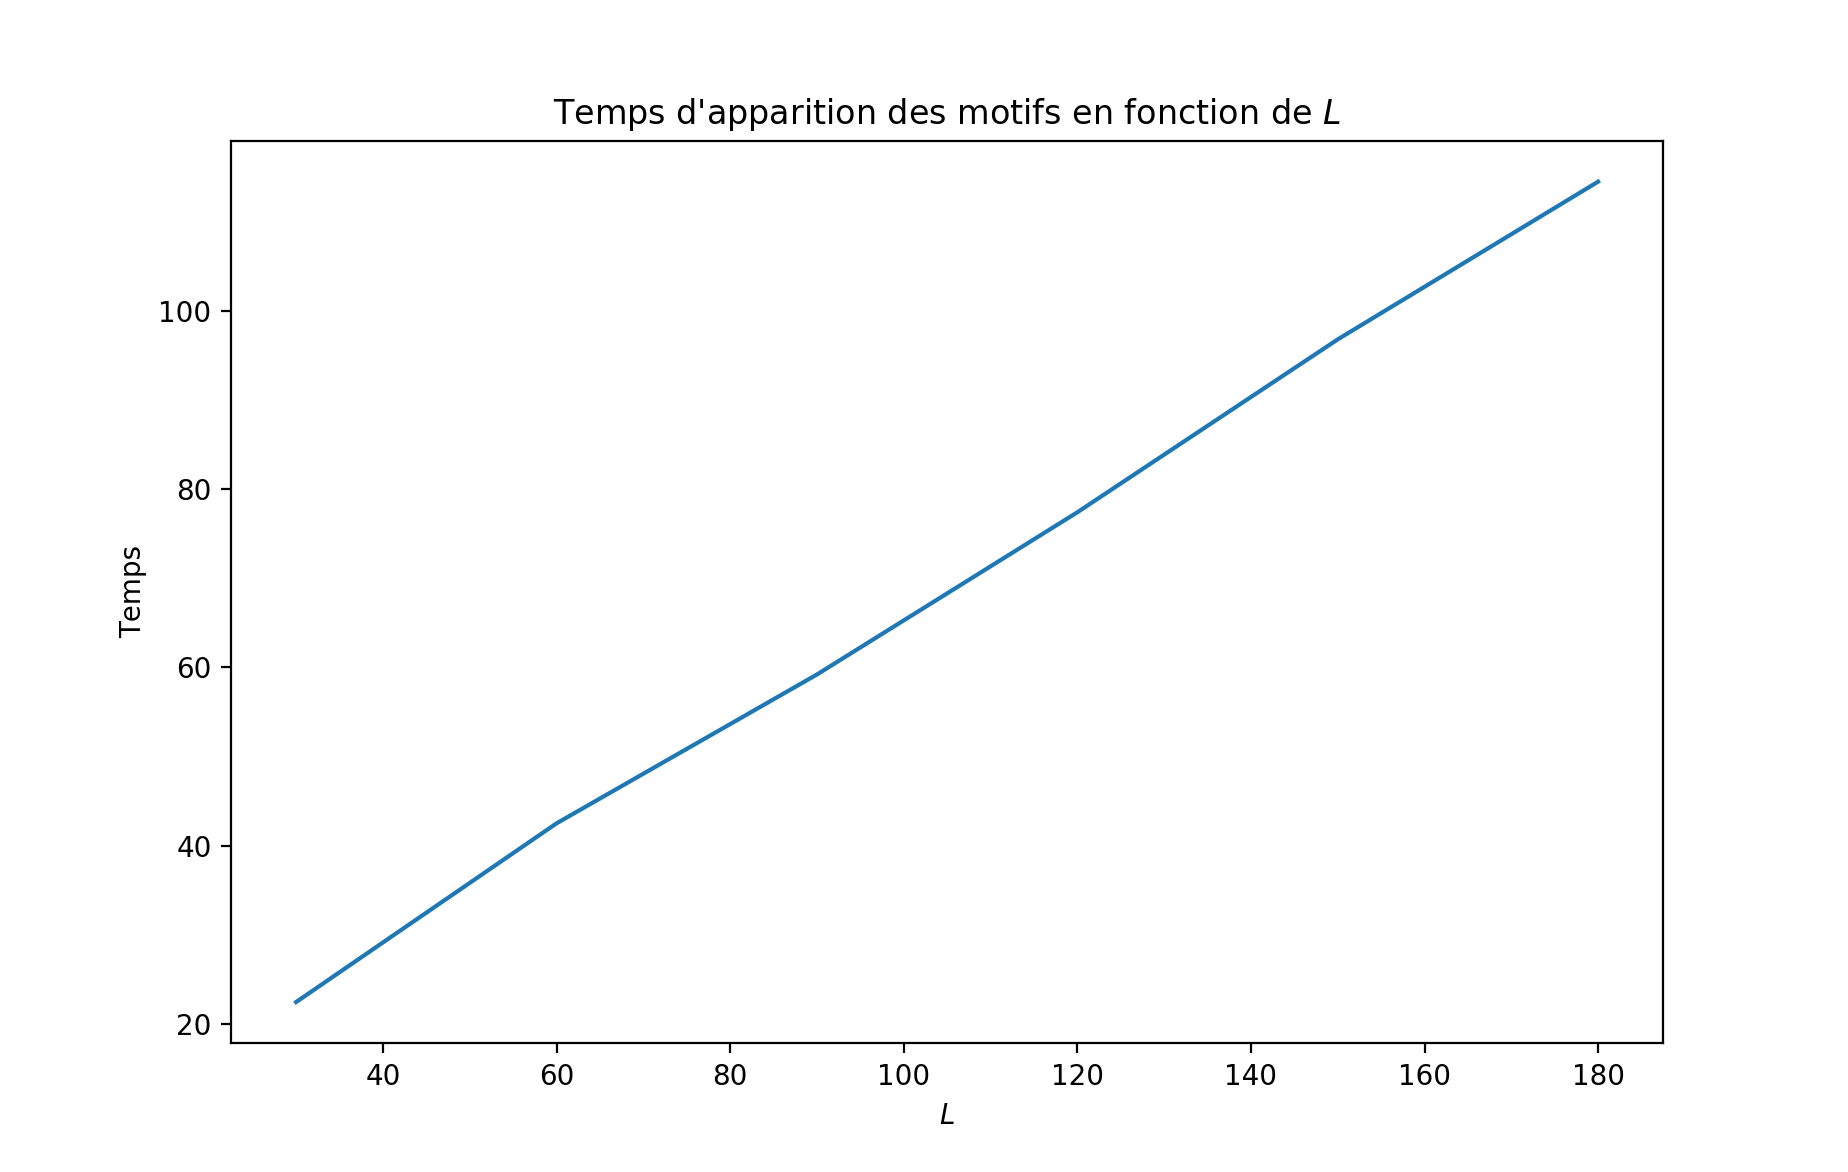
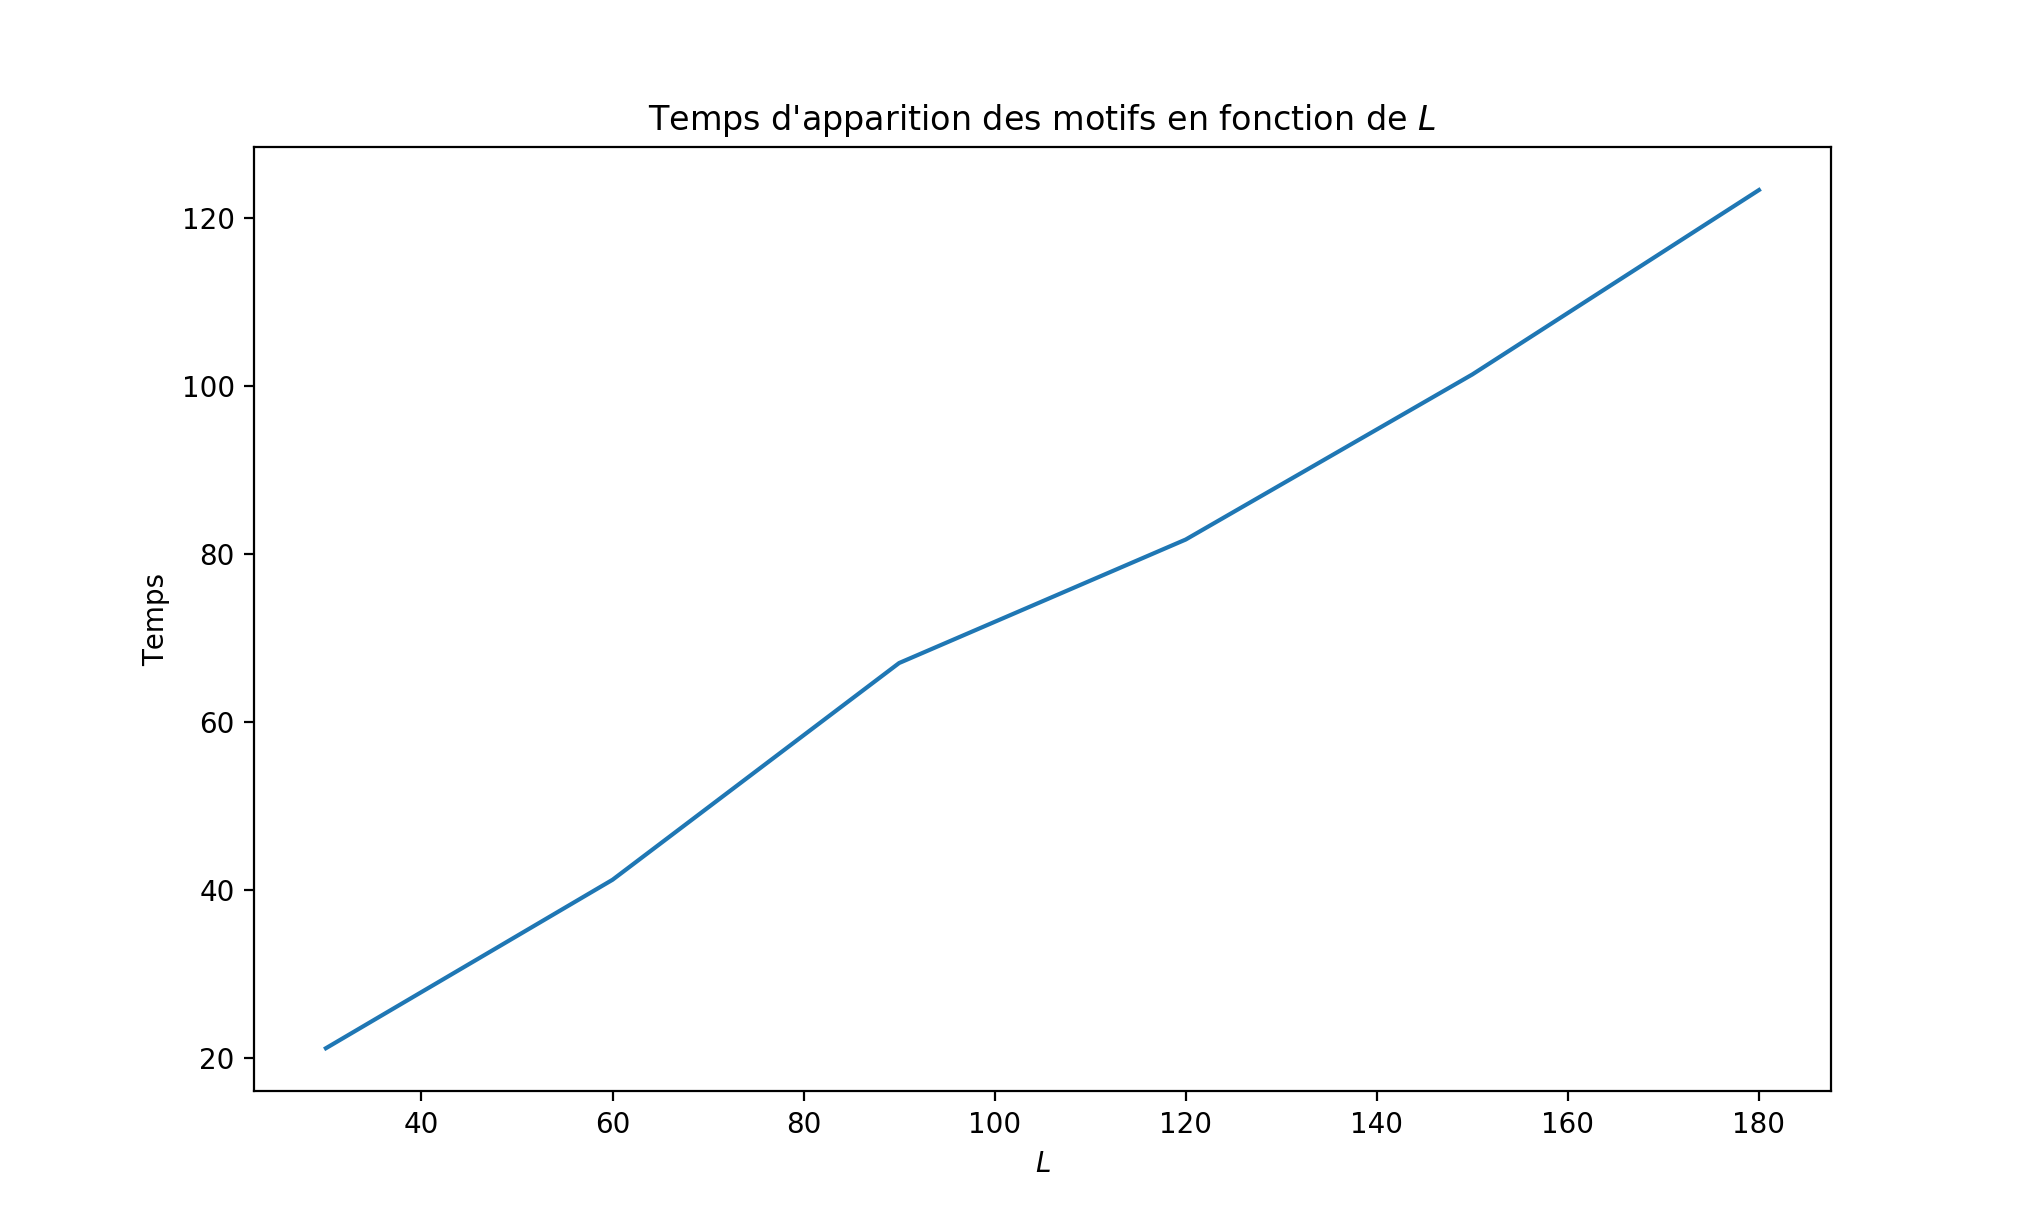
correction calcul lambda

diff --git a/pattern.py b/pattern.py
@@ -7,16 +7,16 @@ from scipy.integrate import simps
 
 
 def u_0(x,L):
-    gamma = 0.1
+    gamma = 0
     return 1*(cos(2*pi*x/L) + gamma*cos(4*pi*x/L))
 
 def noise_u_0(x,L):
-    gamma = 0.5
+    gamma = 0.1
     N = np.shape(x)[0]
     return 1*(cos(2*pi*x/L) + gamma*np.random.random(N)*cos(4*pi*x/L))
 
 def noise(x,L):
-    gamma = 0.5
+    gamma = 0.1
     N = np.shape(x)[0]
     return gamma*np.random.random(N)
 
@@ -86,10 +86,6 @@ def SH(f0,r,L):
         ukc = (1/N)*np.fft.fftshift(np.fft.fft(u**3))
         DFTc[:,j] = ukc
 
-    return U, x_range, [L, T, h, dt, r, T, M, N]
-
-
-
     plt.plot(x_range, U[:,0], label = "t = 0s")
     plt.plot(x_range, U[:,1], label = "t = {}s".format(dt))
     plt.plot(x_range, U[:,int(M/4)], label = "t = {:2.2f}s".format((M/4)*dt))
@@ -112,7 +108,7 @@ def SH(f0,r,L):
 
 
     [kk,tt]=np.meshgrid(k_range,t_range)
-    plt.contourf(kk,tt, DFT.T, cmap = "plasma", levels = 100) # cmap = "jet" dans les consignes
+    plt.contourf(kk,tt, np.abs(DFT.T), cmap = "plasma", levels = 100) # cmap = "jet" dans les consignes
     plt.xlabel("k")
     plt.ylabel("t")
     plt.title("Simulation numérique de l'équation de Swift-Hohenberg \n r = {}, dt = {}, N = {}, L = {}".format(r,dt,N,L))
@@ -120,10 +116,9 @@ def SH(f0,r,L):
     plt.show()
 
 
-    return U
+    return U, x_range, [L, T, h, dt, r, T, M, N]
 
-"""
-r = 0.2
+"""r = 0.2
 L = 100
 time_ev = SH(u_0,r,L)
 """
@@ -198,7 +193,8 @@ def tl_mesure(f0,r,L):
             else :
                 t_pattern = j*dt
                 # Longueur d'onde
-                k_f = abs(uk.tolist().index(min(uk))) + N/36
+                ua = np.abs(uk)
+                k_f = abs(ua.tolist().index(max(ua))) + N/36
                 lamb_f = 2*pi/k_f
 
                 break
@@ -215,34 +211,81 @@ def tl_mesure(f0,r,L):
 def rL_effect(u0, r_range, L_range):
     time = np.zeros((len(r_range), len(L_range)))
     wavelength = np.zeros((len(r_range), len(L_range)))
-
+    
     for n,r in enumerate(r_range):
         for m,L in enumerate(L_range):
             t_,l_ = tl_mesure(u0, r, L)
             time[n,m] = t_
             wavelength[n,m] = l_
-
+            
     plt.imshow(time)
     plt.xlabel("L = {}".format(L_range))
     plt.ylabel("r = {}".format(r_range))
     plt.colorbar()
     plt.show()
-    plt.clf()
-
+    plt.clf()  
+      
     plt.imshow(wavelength)
     plt.xlabel("L = {}".format(L_range))
     plt.ylabel("r = {}".format(r_range))
     plt.colorbar()
     plt.show()
-    plt.clf()
-
-
-
-    return time
-
-
+    plt.clf()  
+    
+      
+def r_effect(u0, r_range):
+    L = 100
+    time = np.zeros((len(r_range)))
+    wavelength = np.zeros((len(r_range)))
+    
+    for n,r in enumerate(r_range):
+        t_,l_ = tl_mesure(u0, r, L)
+        time[n] = t_
+        wavelength[n] = l_
+            
+    plt.plot(r_range, time)
+    plt.xlabel("$r$")
+    plt.ylabel("Temps")
+    plt.title("Temps d'apparition des motifs en fonction de $r$")
+    plt.show()
+    plt.clf()  
+      
+    plt.plot(r_range, wavelength)
+    plt.xlabel("$r$")
+    plt.ylabel("Longueur d'onde")
+    plt.title("Longueur d'onde des motifs en fonction de $r$")
+    plt.show()
+    plt.clf()  
+    
+def L_effect(u0, L_range):
+    r = 0.2
+    time = np.zeros((len(L_range)))
+    wavelength = np.zeros((len(L_range)))
+    
+    for n,l in enumerate(L_range):
+        t_,l_ = tl_mesure(u0, r, l)
+        time[n] = t_
+        wavelength[n] = l_
+            
+    plt.plot(L_range, time)
+    plt.xlabel("$L$")
+    plt.ylabel("Temps")
+    plt.title("Temps d'apparition des motifs en fonction de $L$")
+    plt.show()
+    plt.clf()  
+      
+    plt.plot(L_range, wavelength)
+    plt.xlabel("$L$")
+    plt.ylabel("Longueur d'onde")
+    plt.ylim([0,1.1*max(wavelength)])
+    plt.title("Longueur d'onde des motifs en fonction de $L$")
+    plt.show()
+    plt.clf()  
+    
+    
+    
 #rL_effect(u_0, np.arange(-0.05,0.25,0.05), [25,50,100,150,200])
-#r_effect(u_0, np.arange(-0.05, 0.25, 0.01))
+r_effect(u_0, np.arange(-0.05, 0.25, 0.01))
 L_effect(u_0, np.arange(30,200, 30))
 
 
@@ -338,7 +381,7 @@ def r_bifurcation(u0, r_range):
 
 #r_bifurcation(u_0, np.arange(0.035,0.045,0.001))
 #rL_effect(u_0, np.arange(-0.05,0.25,0.05), [25,50,100,150,200])
-time_ev = SH(noise, 0.2, 100)
+"""time_ev = SH(noise, 0.2, 100)
 U = time_ev[0]
 x_range = time_ev[1]
 param = time_ev[2]
@@ -362,3 +405,4 @@ plt.ylabel("t")
 plt.title("Simulation numérique de l'équation de Swift-Hohenberg \n r = {}, dt = {}, N = {}, L = {}".format(param[4],param[3],param[-1],param[0]))
 plt.colorbar()
 plt.show()
+"""
